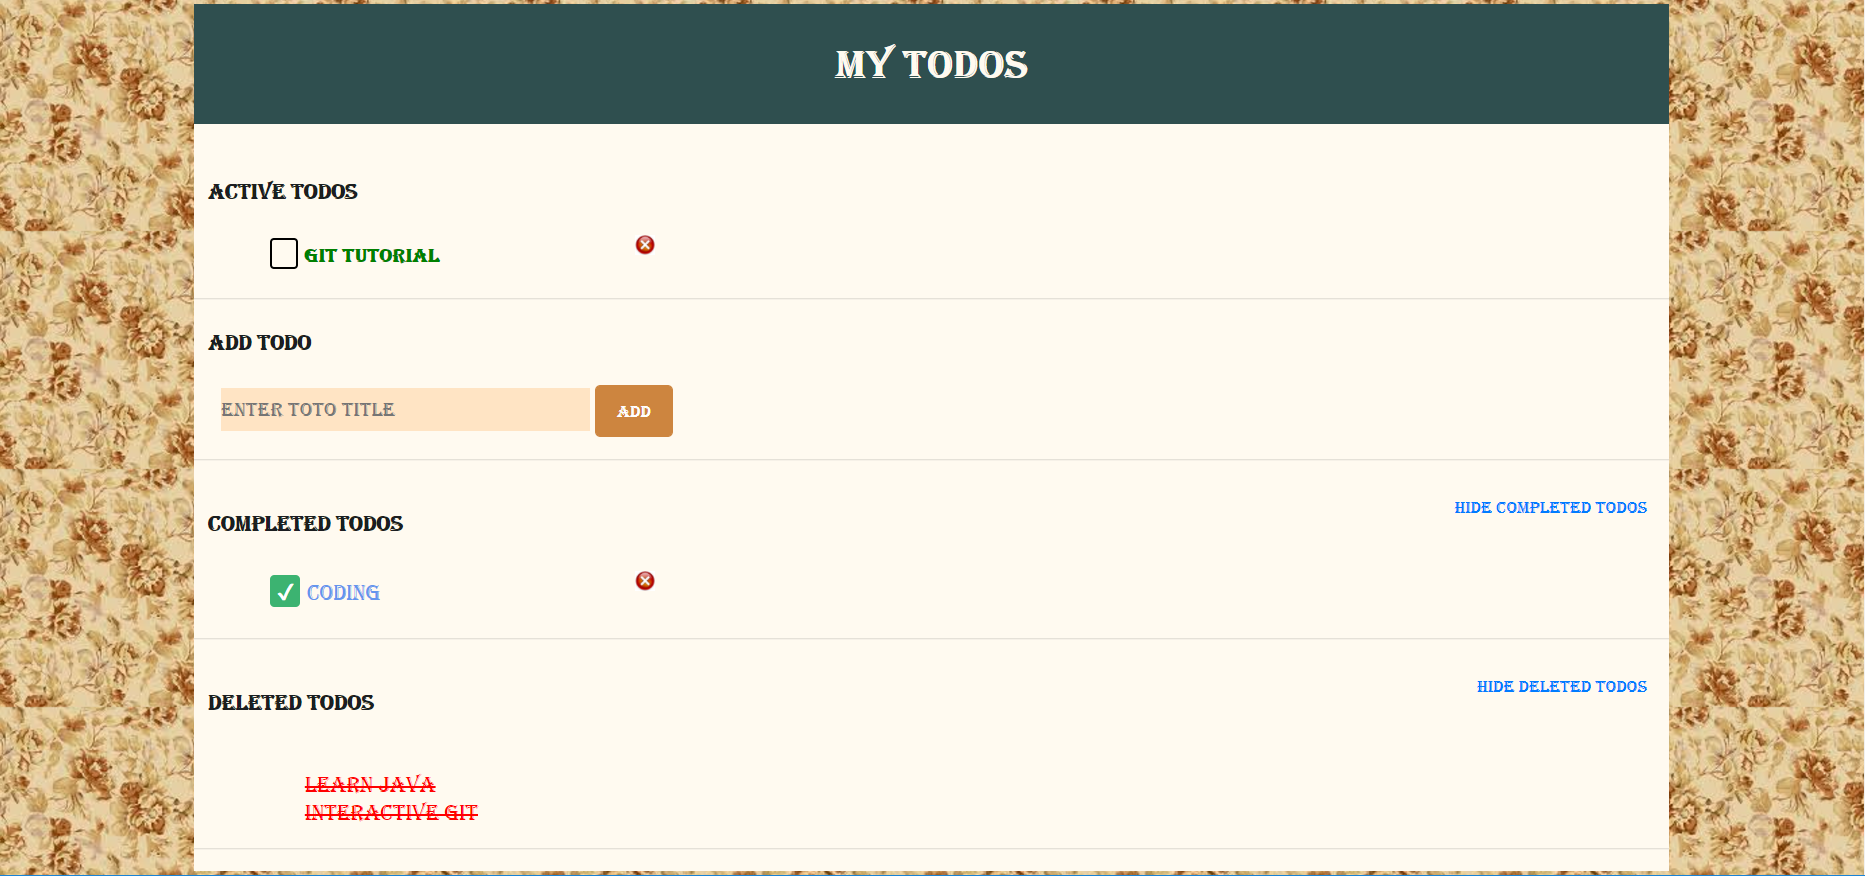
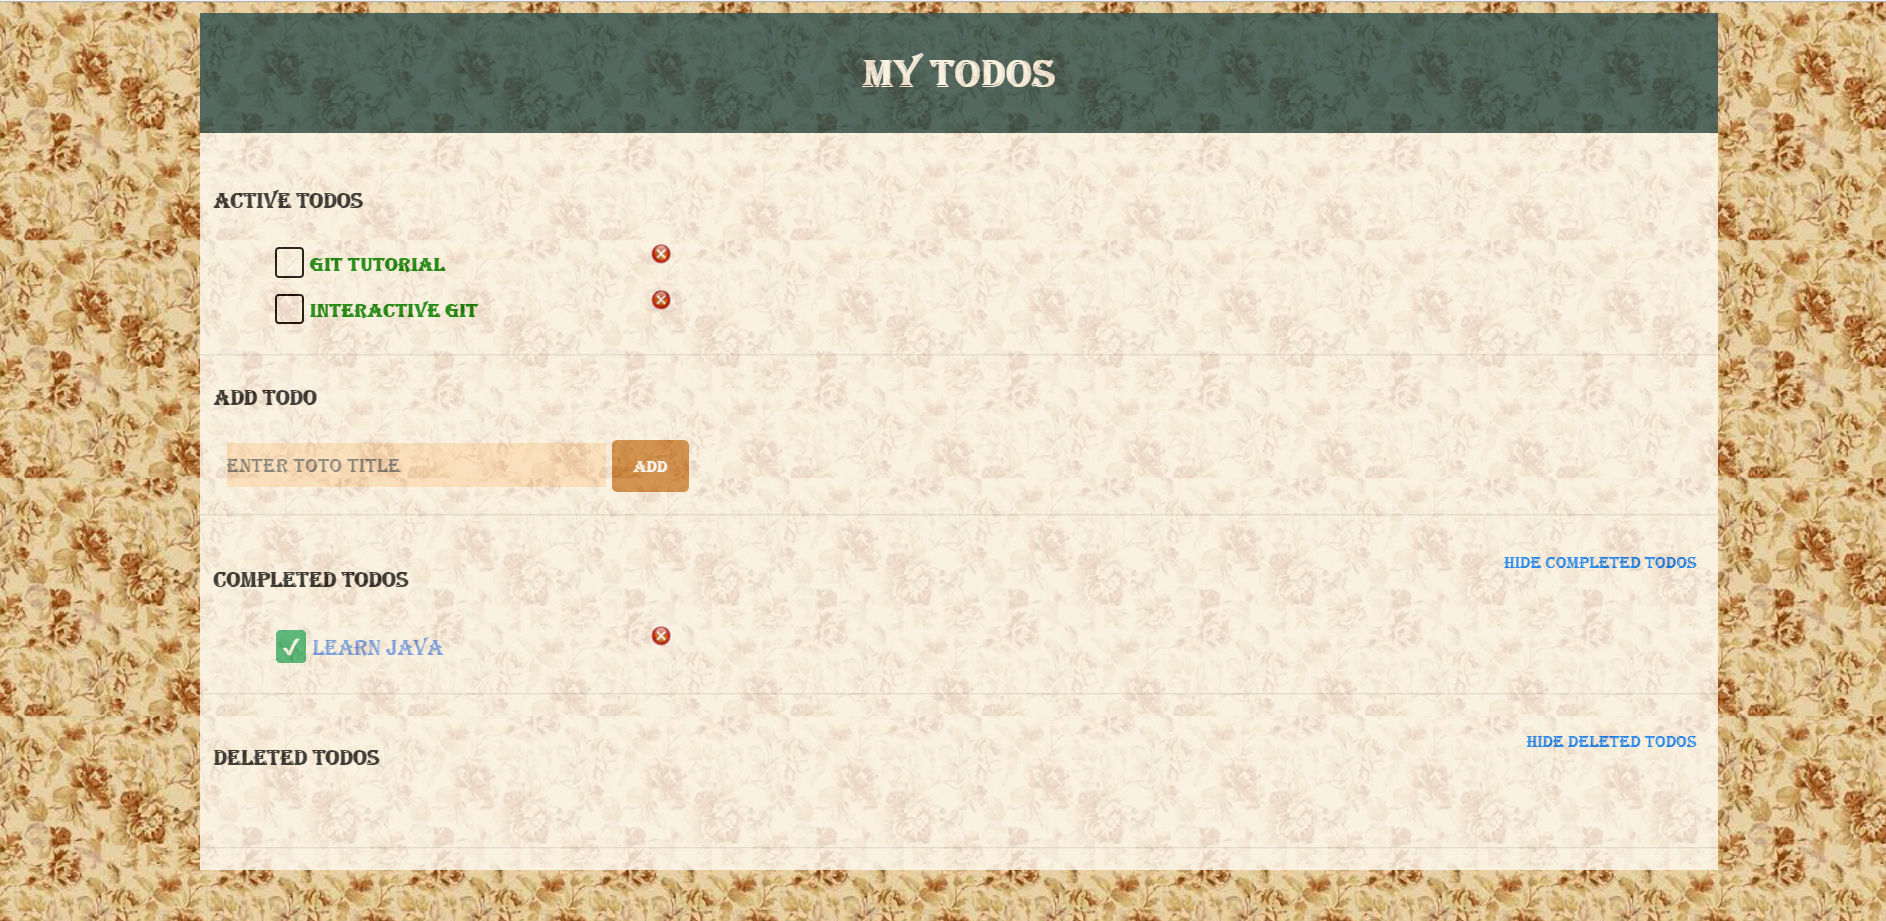
second

diff --git a/public/index.html b/public/index.html
@@ -9,7 +9,7 @@
     <link rel="stylesheet" href="/style.css">
 
 </head>
-<body style="overflow-x: hidden; background-image: url('back7.jpg');     ">
+<body style="overflow-x: hidden; background-image: url('back7.jpg'); opacity: 0.8 ">
  <div style=" margin-left:10%;margin-right:10%; width: 80%; background-color: floralwhite;">
 
 <div class="success">My TODOS</div>
